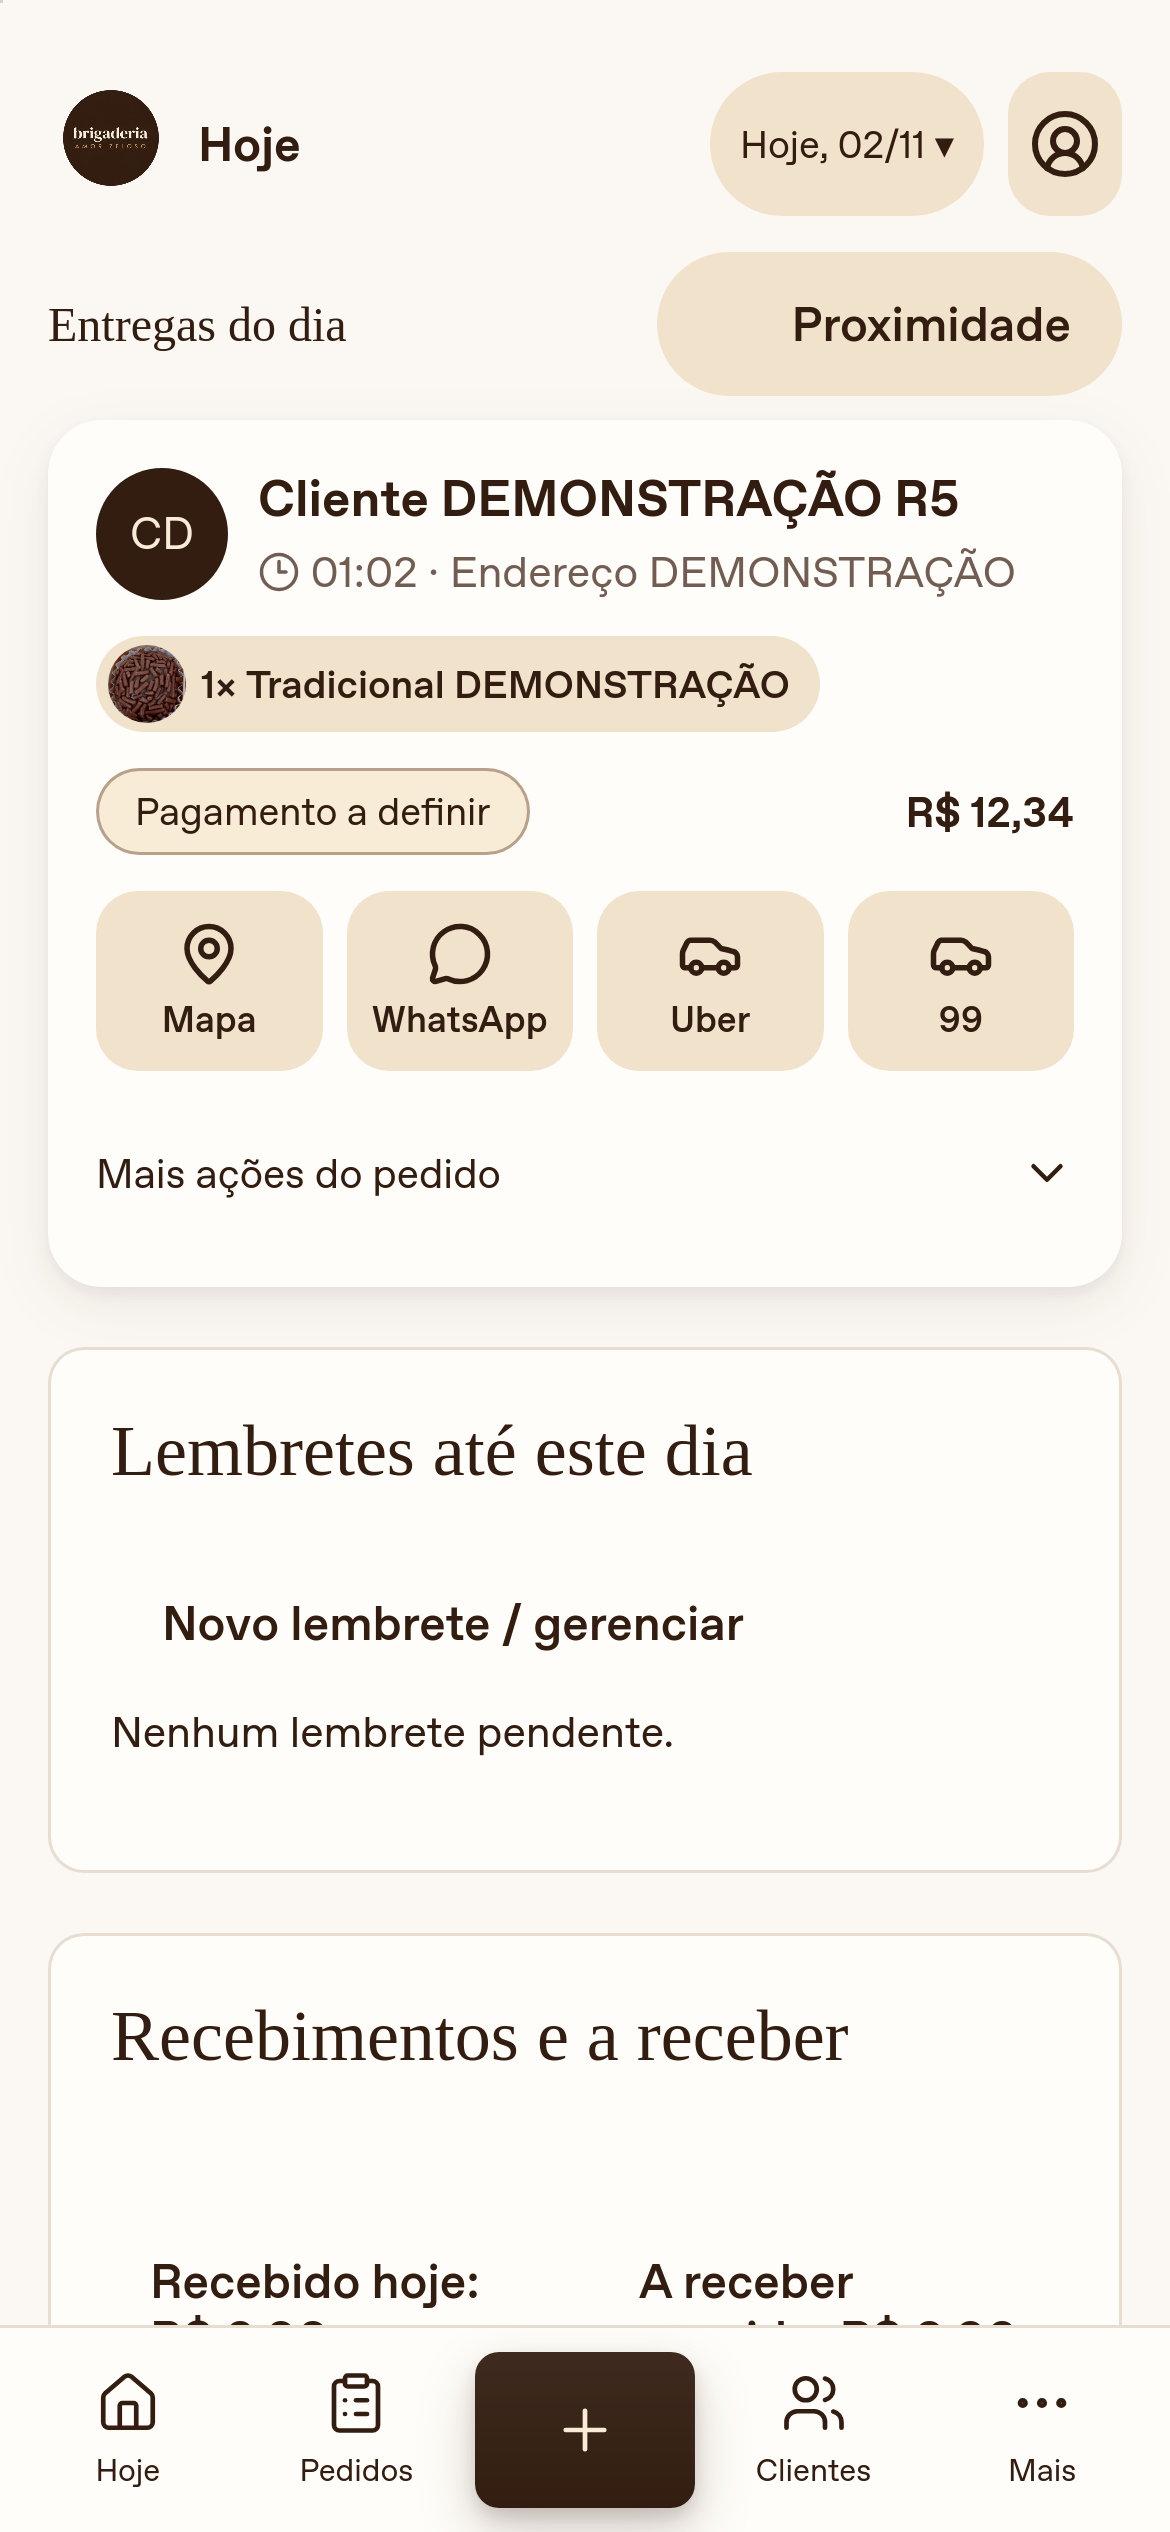
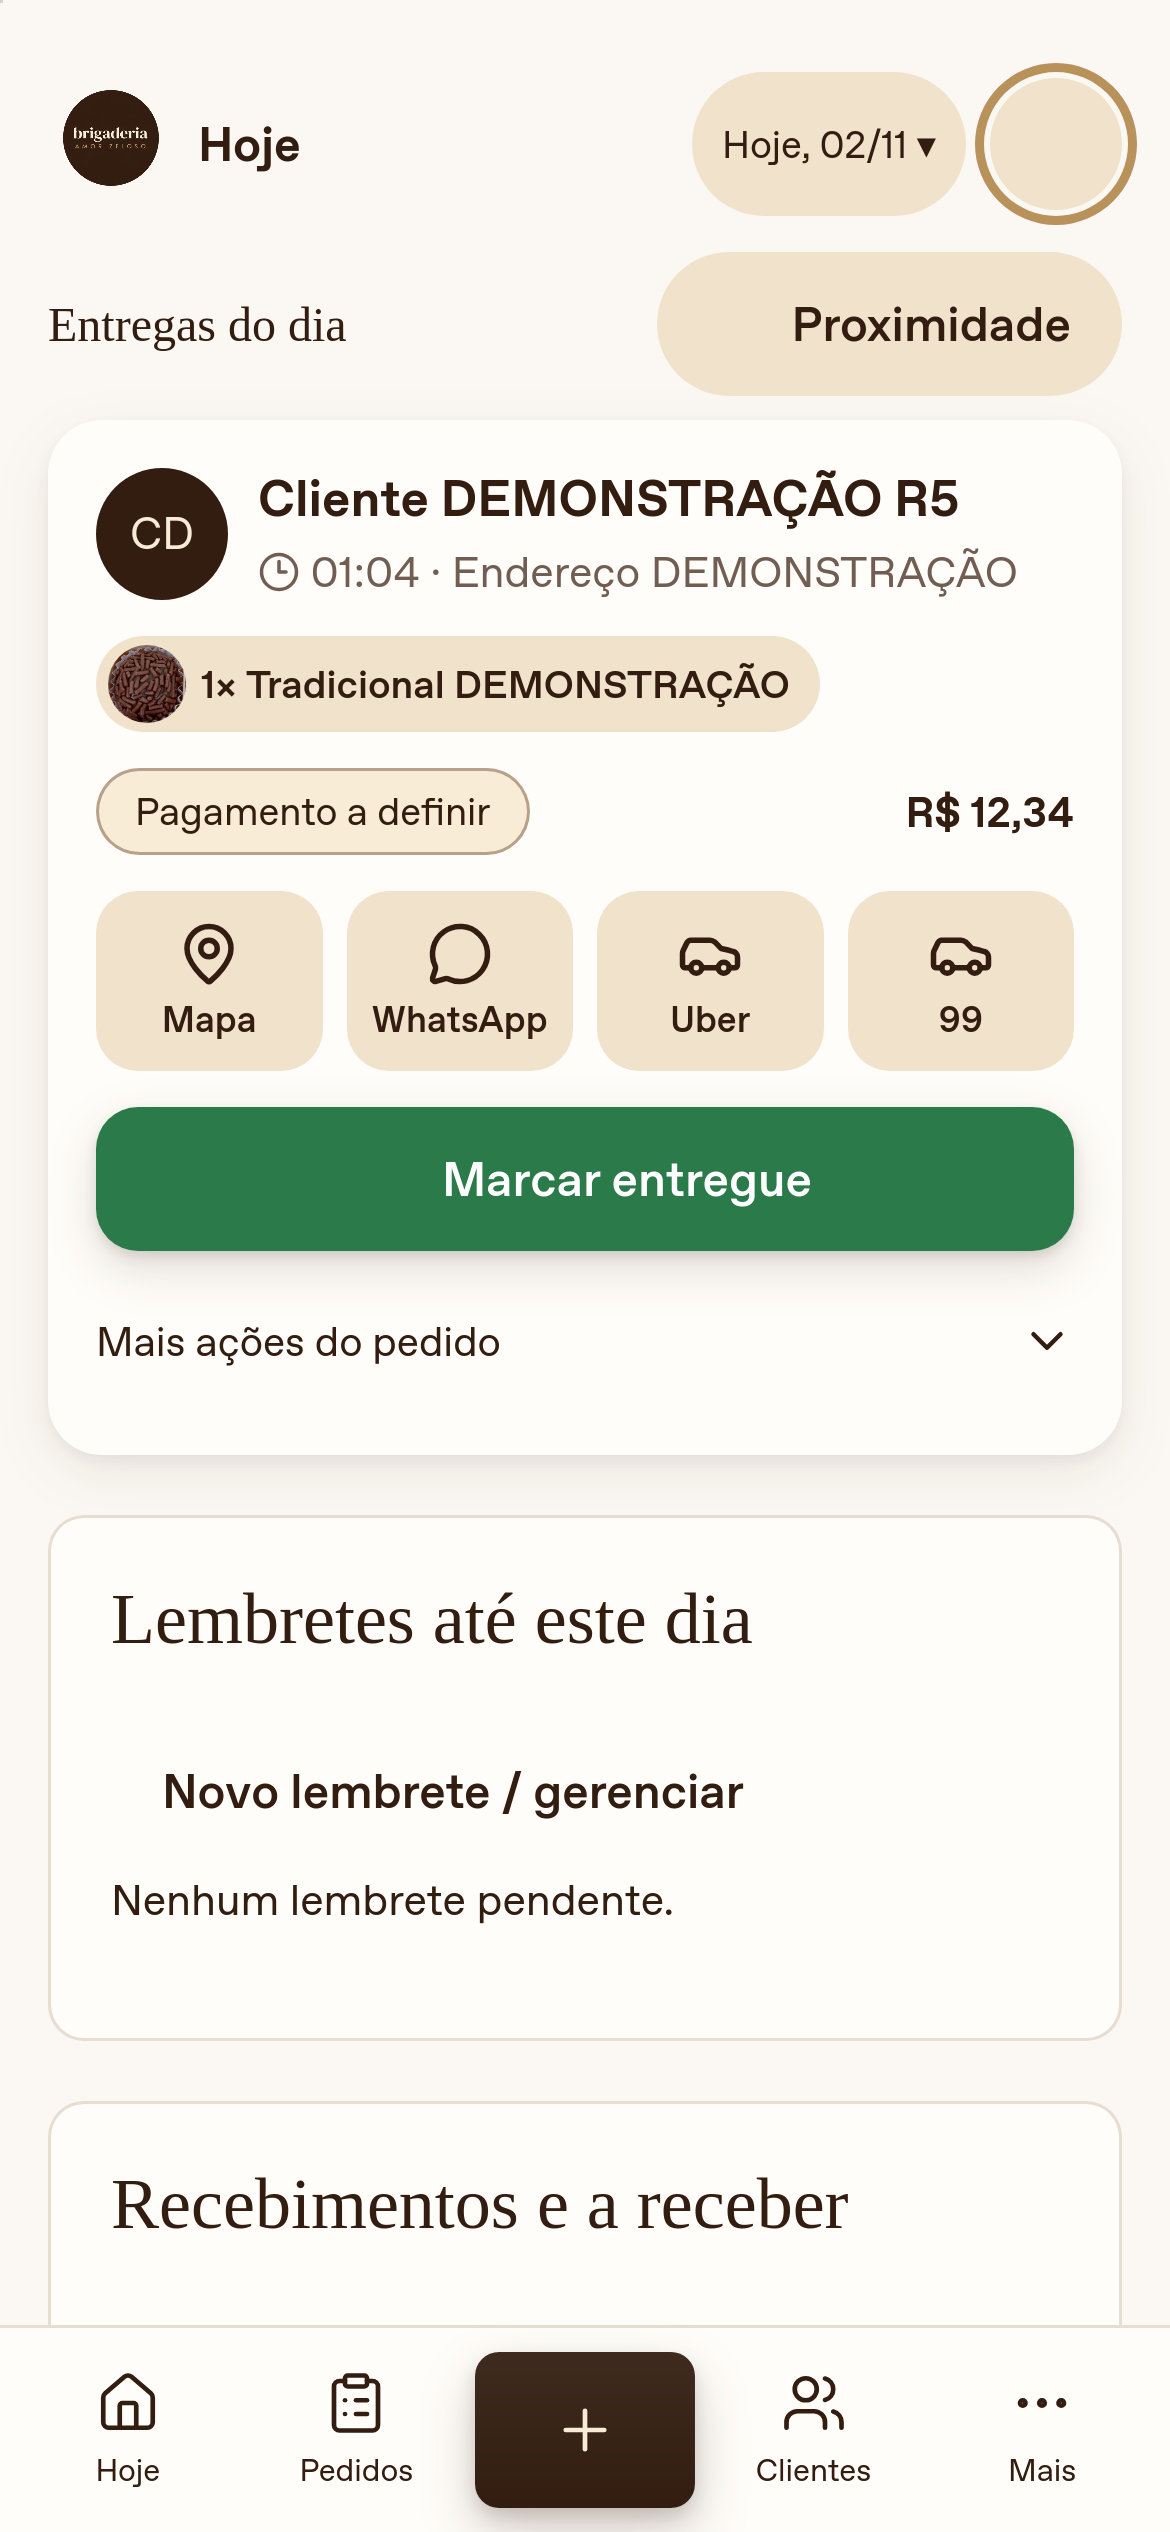
feat: show display-name initials in profile menu trigger (R8-5)

diff --git a/src/features/mobile/CompactHeader.tsx b/src/features/mobile/CompactHeader.tsx
@@ -47,9 +47,17 @@ export function CompactHeader({
       segment === 'pedidos' && location.search.includes('novo')
         ? 'Novo pedido'
         : (titles[segment] ?? 'Gestão'),
-    name =
-      field?.data?.staff.find((s) => s.id === field.data!.user_id)
-        ?.display_name || (role === 'owner' ? 'Administrador' : 'Operador');
+    own = field?.data?.staff.find((s) => s.id === field.data!.user_id),
+    name = own?.version ? own.display_name : 'Meu perfil',
+    initials = own?.version
+      ? own.display_name
+          .trim()
+          .split(/\s+/)
+          .slice(0, 2)
+          .map((w) => w[0])
+          .join('')
+          .toLocaleUpperCase('pt-BR')
+      : '';
   return (
     <>
       <header className="compact-header" aria-label="Cabeçalho da gestão">
@@ -80,8 +88,13 @@ export function CompactHeader({
           aria-label={'Abrir menu de ' + name}
           onClick={() => menu.current?.showModal()}
         >
-          <CircleUserRound size={24} aria-hidden="true" />
-          <span>{name}</span>
+          {initials ? (
+            <span className="profile-initials" aria-hidden="true">
+              {initials}
+            </span>
+          ) : (
+            <CircleUserRound size={24} aria-hidden="true" />
+          )}
         </Button>
       </header>
       <dialog
@@ -92,6 +105,14 @@ export function CompactHeader({
       >
         <div className="sheet-body">
           <h2>{name}</h2>
+          <p>{role === 'owner' ? 'Administrador' : 'Operador'}</p>
+          <Button
+            to="/gestao/preferencias"
+            variant="ghost"
+            onClick={() => menu.current?.close()}
+          >
+            Nome de exibição e preferências
+          </Button>
           {operations && online && (
             <Button
               onClick={() => {

diff --git a/tests/e2e/review-r8.spec.js b/tests/e2e/review-r8.spec.js
@@ -19,6 +19,13 @@ test('R8 cartão compacto, quatro atalhos e entrega validada no servidor', async
   });
   try {
     const { call } = await reviewProject(t);
+    const profile = await t.request('field/profile', {
+      cookie: await t.login('operator@example.test'),
+      method: 'PUT',
+      key: crypto.randomUUID(),
+      data: { display_name: 'Equipe DEMONSTRAÇÃO', version: 0 },
+    });
+    expect(profile.ok).toBe(true);
     let order = (await call('orders', undefined, 'GET'))[0];
     for (const to of ['in_production', 'ready', 'out_for_delivery']) {
       await call(`orders/${order.id}/status`, { version: order.version, to });
@@ -26,6 +33,20 @@ test('R8 cartão compacto, quatro atalhos e entrega validada no servidor', async
     }
     const p = await c.newPage();
     await p.goto(t.url + '/api/access/start');
+    const avatar = p.getByRole('button', {
+      name: 'Abrir menu de Equipe DEMONSTRAÇÃO',
+      exact: true,
+    });
+    await expect(avatar).toHaveText('ED');
+    await avatar.click();
+    await expect(
+      p.getByRole('dialog', { name: 'Menu da gestão' }),
+    ).toContainText('Operador');
+    if (process.env.R8_CAPTURE === '1' && info.project.name === 'webkit-mobile')
+      await p.screenshot({
+        path: 'docs/colaboracao/capturas/r8-depois-perfil.png',
+      });
+    await p.getByRole('button', { name: 'Fechar menu', exact: true }).click();
     const card = p.locator('.order-card').first();
     await expect(card).toBeVisible();
     await expect(card.locator('.delivery-icon-row .az-button')).toHaveCount(4);

diff --git a/src/styles.css b/src/styles.css
@@ -1871,3 +1871,21 @@ details[open] > .disclosure-summary > .disclosure-chevron {
     font-size: 15px;
   }
 }
+.compact-header .profile-menu-trigger.az-button {
+  border-radius: 50%;
+  width: 44px;
+  min-width: 44px;
+  height: 44px;
+  min-height: 44px;
+  padding: 3px;
+}
+.compact-header .profile-menu-trigger .profile-initials {
+  display: grid;
+  place-items: center;
+  width: 38px;
+  height: 38px;
+  border-radius: 50%;
+  background: #f1e2cc;
+  font-size: 14px;
+  font-weight: 700;
+}

diff --git a/docs/colaboracao/CODEX_PARA_CLAUDE.md b/docs/colaboracao/CODEX_PARA_CLAUDE.md
@@ -119,6 +119,8 @@ Limitação: validação em navegador simulado, aparelho físico pendente.
 
 ## Histórico
 
+- **2026-11-02 — R8-5:** Botão do perfil com iniciais do nome cadastrado e alvo circular de 44 px; sem nome cadastrado usa ícone neutro, sem papel no botão. Nome e papel aparecem no menu, com acesso às preferências. Foto pessoal fica explicitamente para R6-5. Build/tipagem/lint e nove E2E de perfil/cabeçalho/campo/entrega aprovados. Captura r8-depois-perfil. Próximo R8-6.
+
 - **2026-11-02 — R8-4:** Cartões de clientes em uma coluna e largura total no celular, inclusive na escolha do pedido; avatar 44 px e nome sem quebra forçada. Desktop preservado. Build/tipagem e três E2E com medida de largura/limites da tela aprovados; capturas atualizadas. Próximo R8-5.
 
 - **2026-11-02 — R8-3:** DisclosureSummary compartilhado com ChevronDown Lucide; marcador nativo oculto inclusive no Safari, rotação e reduced-motion. Build/tipagem/lint e seis E2E de campo/fluxos aprovados (os três fluxos repetidos após ajustar o seletor ao summary visível). Capturas atualizadas. Próximo R8-4; nenhum dado/serviço remoto alterado.
@@ -198,7 +200,7 @@ Arquivos/aceite: Today, DeliveryActions, Button e API Today (R8-1: cartão compa
 | R8-2          | Entregue (limites e testes no histórico).                      |
 | R8-3          | Entregue (limites e testes no histórico).                      |
 | R8-4          | Entregue (limites e testes no histórico).                      |
-| R8-5          | Pendente.                                                      |
+| R8-5          | Entregue (limites e testes no histórico).                      |
 | R8-6          | Pendente.                                                      |
 | R8-7          | Pendente.                                                      |
 | R5-5 a R5-10  | Pendentes após R8.                                             |
